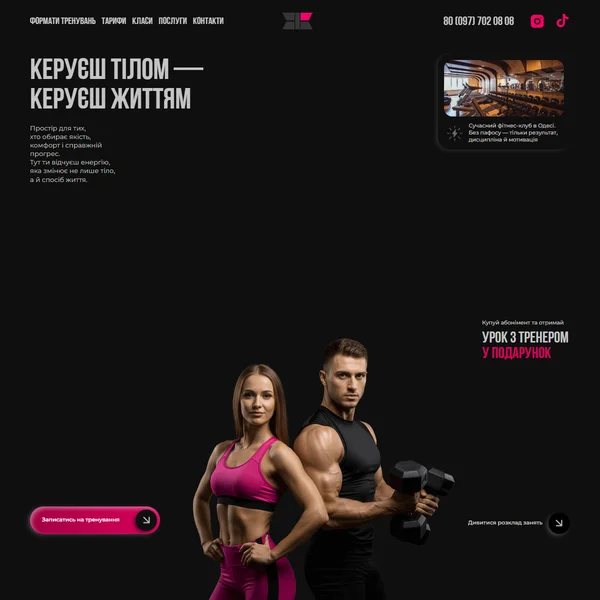
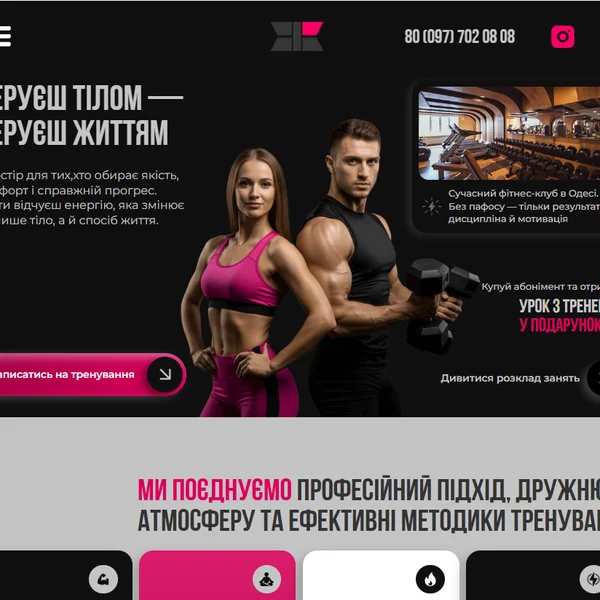
Кейси: скріни від Каті, порядок IBP → CLG → GYM → Темп Дніпра → Порядок
Прев'ю трохи менші (до 215 px), квадрати зі скрінів Каті.

diff --git a/index.html b/index.html
@@ -293,7 +293,7 @@ a:hover .roll>span+span,button:hover .roll>span+span{transform:none}
 .case:hover .arrow{background:var(--orange);border-color:var(--orange);color:#fff;transform:rotate(-45deg)}
 .peek{
   --x:0px;--y:0px;
-  position:fixed;left:0;top:0;z-index:40;pointer-events:none;width:clamp(180px,17vw,270px);
+  position:fixed;left:0;top:0;z-index:40;pointer-events:none;width:clamp(150px,13vw,215px);
   /* положення задає скрипт: картка плавно наздоганяє курсор, без нахилу */
   transform:translate3d(var(--x),var(--y),0) translate(-50%,-50%);
 }
@@ -938,12 +938,12 @@ a:hover .roll>span+span,button:hover .roll>span+span{transform:none}
       <span class="badge"><svg width="26" height="26" viewBox="0 0 26 26" fill="none" stroke="currentColor" stroke-width="2.4" aria-hidden="true"><path d="M3 23L14 12M8 12h6v6"/><path d="M17 3h6v6M23 3l-5 5"/></svg></span>
     </div>
 
-    <a class="case" data-name="CLG" data-preview="images/cases/clg.webp" href="https://customlogisticgroup.webflow.io/" target="_blank" rel="noopener">
-      <span class="num">01</span><span class="h case__name">Custom Logistic Group</span><span class="case__type">Логістика · сайт</span>
+    <a class="case" data-name="IBP Consulting" data-preview="images/cases/ibp.webp" href="https://viktoriaibp.com/" target="_blank" rel="noopener">
+      <span class="num">01</span><span class="h case__name">IBP Consulting</span><span class="case__type">Консалтинг · сайт</span>
       <span class="arrow"><svg width="18" height="18" viewBox="0 0 18 18" fill="none" stroke="currentColor" stroke-width="2"><path d="M2 9h13M10 4l5 5-5 5"/></svg></span>
     </a>
-    <a class="case" data-name="IBP Consulting" data-preview="images/cases/ibp.webp" href="https://viktoriaibp.com/" target="_blank" rel="noopener">
-      <span class="num">02</span><span class="h case__name">IBP Consulting</span><span class="case__type">Консалтинг · сайт</span>
+    <a class="case" data-name="CLG" data-preview="images/cases/clg.webp" href="https://customlogisticgroup.webflow.io/" target="_blank" rel="noopener">
+      <span class="num">02</span><span class="h case__name">Custom Logistic Group</span><span class="case__type">Логістика · сайт</span>
       <span class="arrow"><svg width="18" height="18" viewBox="0 0 18 18" fill="none" stroke="currentColor" stroke-width="2"><path d="M2 9h13M10 4l5 5-5 5"/></svg></span>
     </a>
     <a class="case" data-name="G&amp;B GYM" data-preview="images/cases/gbgym.webp" href="https://g-b-93a51c.webflow.io/" target="_blank" rel="noopener">
